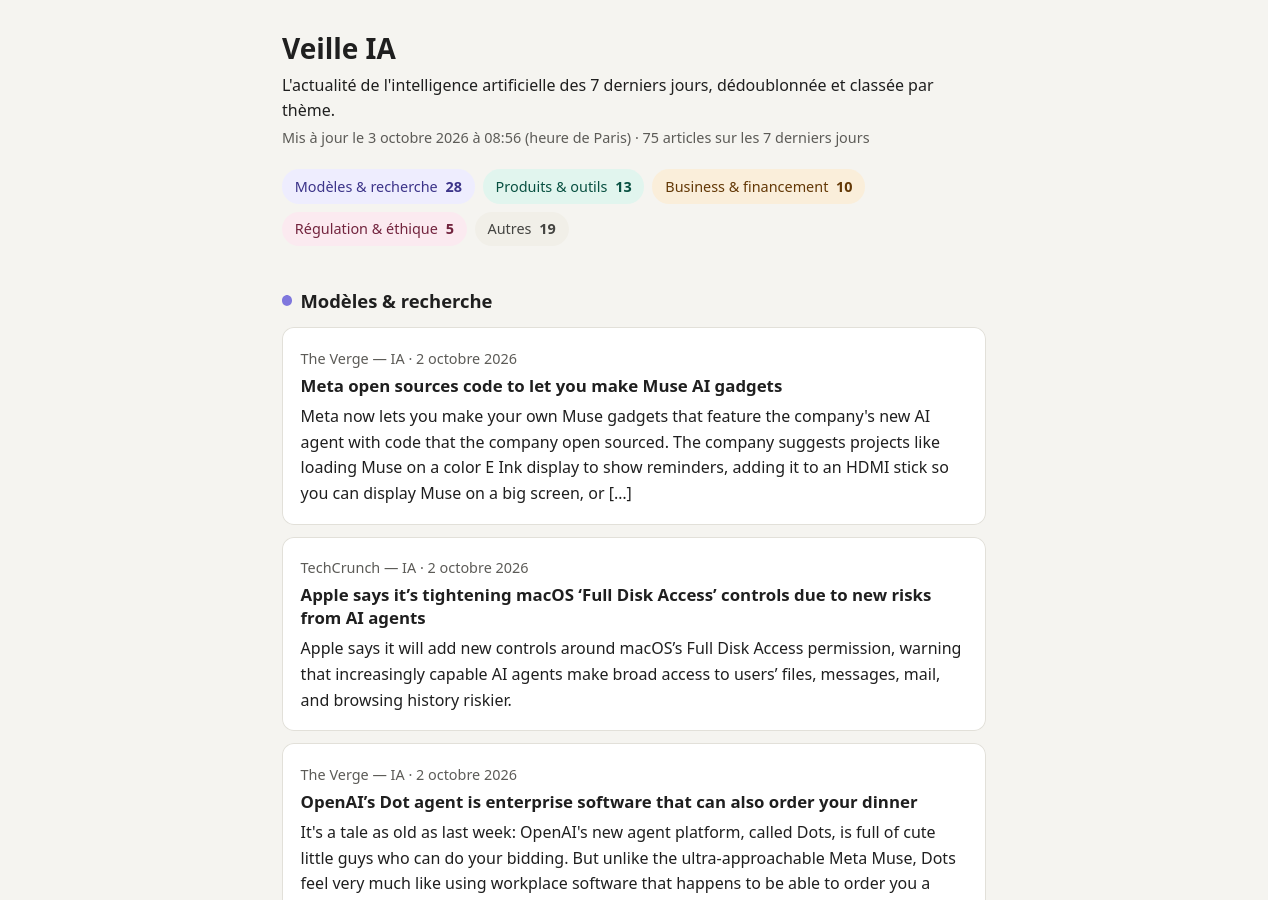
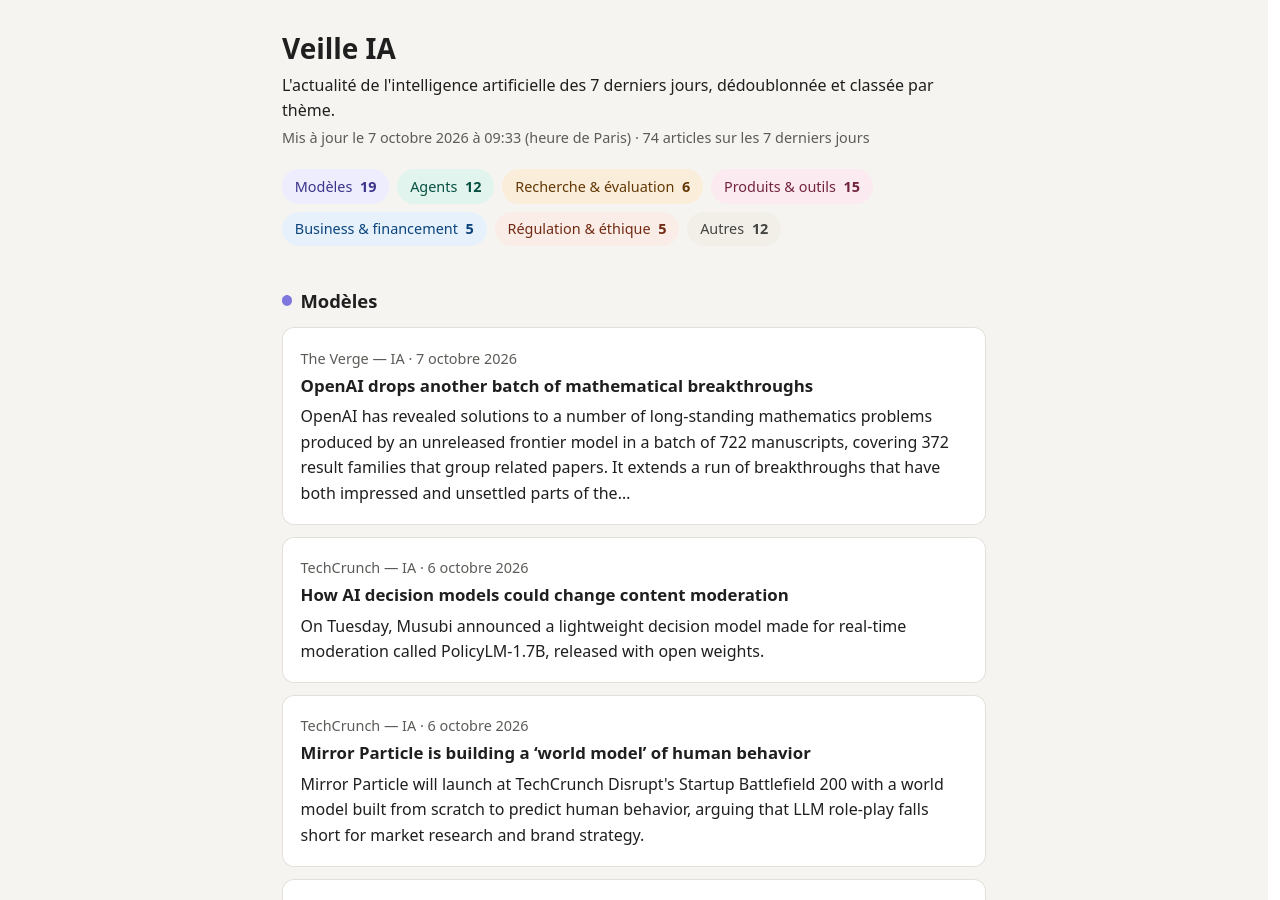
feat: split the « Modèles & recherche » theme in three (#26)
Modèles, Agents and Recherche & évaluation replace the catch-all theme;
all former keywords are kept. Measured on three days of real feeds:
+3 to 4 points of classification, largest theme halved. Decision D20,
CdC v1.18, R2 (in review); README screenshots retaken.

diff --git a/tests/test_config.py b/tests/test_config.py
@@ -73,16 +73,6 @@ def test_config_requires_at_least_one_source(tmp_path):
         load_sources(path)
 
 
-def test_project_themes_follow_the_requirements():
-    names = [t.name for t in load_themes(ROOT / DEFAULT_THEMES_PATH)]
-    assert names == [
-        "Modèles & recherche",
-        "Produits & outils",
-        "Business & financement",
-        "Régulation & éthique",
-    ]
-
-
 def test_themes_require_keywords(tmp_path):
     path = tmp_path / "themes.yaml"
     path.write_text("themes:\n  - name: Vide\n    keywords: []\n", encoding="utf-8")
@@ -102,3 +92,15 @@ def test_other_theme_name_is_reserved_whatever_the_case(tmp_path):
     path.write_text("themes:\n  - name: ' autres '\n    keywords: [x]\n", encoding="utf-8")
     with pytest.raises(ConfigError, match="reserved"):
         load_themes(path)
+
+
+def test_project_themes_split_models_and_research():
+    # D20: « Modèles & recherche » split in three, measured on real feeds (#26)
+    assert [theme.name for theme in load_themes(ROOT / DEFAULT_THEMES_PATH)] == [
+        "Modèles",
+        "Agents",
+        "Recherche & évaluation",
+        "Produits & outils",
+        "Business & financement",
+        "Régulation & éthique",
+    ]

diff --git a/docs/risques.md b/docs/risques.md
@@ -1,13 +1,13 @@
 # Registre des risques
 
 > Probabilité notée **Faible / Moyenne / Élevée**, impact noté **Faible / Moyen / Élevé**. La colonne « Mise en œuvre » indique le jalon où la mesure s'applique. Registre revu à chaque fin de jalon.
-> **Statut :** version initiale validée par le chef de projet (Richard) le 2026-09-29 ; mise à jour liée à D13 (R5) validée le 2026-09-30 ; revue de fin de J0 validée le 2026-09-30 ; revue de fin de J1 validée le 2026-09-30 ; revue de fin de J2 validée le 2026-10-01 ; revue de fin de J3 validée le 2026-10-02 (pull request #33) ; mise à jour de R3 validée le 2026-10-03 (pull request #35) ; mise à jour de R6 et R13 liée à D18 validée le 2026-10-03 (pull request #36) ; mise à jour de R2, R7 et R12 liée à D19 validée le 2026-10-03 (pull request #37) ; mise à jour de R9 validée le 2026-10-06 (pull request #38) ; mise à jour de R3 et R5 du 2026-10-06 (clôture de J3) validée le 2026-10-06 (pull request #40) ; mise à jour de R2 validée le 2026-10-06 (pull request #41) — revue à chaque fin de jalon.
-> **Dernière revue :** 2026-10-02 (fin de J3, mise en ligne de la V1) ; R3 et R5 mis à jour le 2026-10-06 (clôture de J3) ; R2 mis à jour le 2026-10-06 (#39)
+> **Statut :** version initiale validée par le chef de projet (Richard) le 2026-09-29 ; mise à jour liée à D13 (R5) validée le 2026-09-30 ; revue de fin de J0 validée le 2026-09-30 ; revue de fin de J1 validée le 2026-09-30 ; revue de fin de J2 validée le 2026-10-01 ; revue de fin de J3 validée le 2026-10-02 (pull request #33) ; mise à jour de R3 validée le 2026-10-03 (pull request #35) ; mise à jour de R6 et R13 liée à D18 validée le 2026-10-03 (pull request #36) ; mise à jour de R2, R7 et R12 liée à D19 validée le 2026-10-03 (pull request #37) ; mise à jour de R9 validée le 2026-10-06 (pull request #38) ; mise à jour de R3 et R5 du 2026-10-06 (clôture de J3) validée le 2026-10-06 (pull request #40) ; mise à jour de R2 validée le 2026-10-06 (pull request #41) ; mise à jour de R2 liée à D20 en revue (pull request #42) — revue à chaque fin de jalon.
+> **Dernière revue :** 2026-10-02 (fin de J3, mise en ligne de la V1) ; R3 et R5 mis à jour le 2026-10-06 (clôture de J3) ; R2 mis à jour le 2026-10-06 (#39) et le 2026-10-07 (D20)
 
 | ID | Risque | Probabilité | Impact | Mesure prévue | Mise en œuvre | Statut |
 |---|---|---|---|---|---|---|
 | R1 | Une source RSS change d'URL, de format ou disparaît | Moyenne | Moyen | Sources isolées les unes des autres (une source en panne n'arrête pas les autres) ; liste modifiable dans `config/sources.yaml` ; source indisponible signalée sur la page | J1, puis J3 | Ouvert — mesures en place : isolement (J1) ; sources indisponibles signalées sur la page (J3) |
-| R2 | Le classement par mots-clés est imprécis (beaucoup d'articles en « Autres ») | Moyenne | Moyen | Critère de réussite mesurable (≥ 70 % classés) ; ajustement itératif de `config/themes.yaml` (découpage étudié en J4, #26) ; amélioration par LLM étudiée en J4 et non retenue (D19) | J2, puis J4 | Ouvert — mesure en place (J2) : 90 % des histoires classées le 2026-10-01, 76 % le 2026-10-03 (critère ≥ 70 % tenu) ; LLM non retenu pour l'instant (D19) ; taux de classement affiché dans le bilan de chaque exécution (#39) |
+| R2 | Le classement par mots-clés est imprécis (beaucoup d'articles en « Autres ») | Moyenne | Moyen | Critère de réussite mesurable (≥ 70 % classés) ; ajustement itératif de `config/themes.yaml` (découpage étudié en J4, #26, et adopté, D20) ; amélioration par LLM étudiée en J4 et non retenue (D19) | J2, puis J4 | Ouvert — mesure en place (J2) : 90 % des histoires classées le 2026-10-01, 76 % le 2026-10-03 (critère ≥ 70 % tenu) ; LLM non retenu pour l'instant (D19) ; taux de classement affiché dans le bilan de chaque exécution (#39) ; découpage des thèmes adopté (D20, 2026-10-07) : 84 % des actualités classées le jour de la décision |
 | R3 | GitHub désactive le workflow planifié après 60 jours sans activité sur le repo | Élevée | Élevé | Date de dernière mise à jour affichée sur la page ; vérification mensuelle et réactivation ; décider de la durée de vie souhaitée de la page à la clôture du projet | J3, puis continu | Ouvert — date de mise à jour affichée sur la page (J3) ; vérification mensuelle et durée de vie de la page à décider ; constat du 2026-10-02 : l'exécution planifiée de 04:00 UTC n'a pas eu lieu, horaire décalé à 04:17 UTC (#31) ; constat du 2026-10-03 : l'exécution de 04:17 UTC n'a pas eu lieu non plus, trois lancements planifiés par jour (#34) ; constat du 2026-10-06 : 9 exécutions planifiées réussies du 3 au 5 octobre (UTC), avec 3 à 9 heures de retard sur les créneaux prévus ; aucune heure n'est plus promise (CdC v1.16) |
 | R4 | Dérive du périmètre (ajout de fonctionnalités avant la V1) | Moyenne | Élevé | Hors périmètre explicite dans le cahier des charges ; toute nouvelle idée va en J4 ou dans le backlog, et toute modification du périmètre est tracée dans `decisions.md` | Continu | Ouvert |
 | R5 | Retard du planning (disponibilité limitée : chef de projet seul ; planning resserré depuis D13) | Élevée | Moyen | V1 volontairement minimale ; arbitrages et recettes quotidiens ; livrables de J0 utilisables indépendamment ; J4 facultatif ; écarts tracés | Continu | Ouvert — écart constaté : J0 clos le 2026-09-30 (+1 jour) ; J1 livré à la date cible (2026-09-30) ; J2 livré à la date cible (2026-10-01) ; J3 : V1 en ligne à la date cible (2026-10-02, 00:05, heure de Paris) ; écart : la première exécution planifiée, attendue le 2026-10-02, n'a pas eu lieu ; première mise à jour automatique réussie le 2026-10-03 ; J3 clos le 2026-10-06 (+4 jours sur la cible, en attendant des exécutions planifiées fiables, #34) ; le critère n° 2 est compté en jours de l'heure de Paris à partir du 2026-10-03 (précisions de D13 du 2026-10-02 et du 2026-10-06) ; constat prévu au plus tôt le 2026-10-07, après la cible de J4 (2026-10-06) : le bilan sera complété à cette date (D13) |

diff --git a/docs/decisions.md b/docs/decisions.md
@@ -2,7 +2,7 @@
 
 > Chaque choix structurant du projet est consigné ici : contexte, options envisagées, décision et justification.
 > **Décideur :** Richard (chef de projet). Les options sont préparées avec l'assistance de Claude Code.
-> **Statut :** décisions D1 à D17 validées par le chef de projet (D1 à D12 le 2026-09-29, D13 à D15 le 2026-09-30, D16 et D17 le 2026-10-01) ; précision de D13 (départ du critère n° 2) validée le 2026-10-02 (pull request #33) ; précision de D13 (fuseau du décompte) validée le 2026-10-06 (pull request #40) ; précision de D14 (nommage, complexité, couverture) validée le 2026-10-06 (pull request #41) ; D18 validée le 2026-10-03 (pull request #36) ; D19 validée le 2026-10-03 (pull request #37).
+> **Statut :** décisions D1 à D17 validées par le chef de projet (D1 à D12 le 2026-09-29, D13 à D15 le 2026-09-30, D16 et D17 le 2026-10-01) ; précision de D13 (départ du critère n° 2) validée le 2026-10-02 (pull request #33) ; précision de D13 (fuseau du décompte) validée le 2026-10-06 (pull request #40) ; précision de D14 (nommage, complexité, couverture) validée le 2026-10-06 (pull request #41) ; D18 validée le 2026-10-03 (pull request #36) ; D19 validée le 2026-10-03 (pull request #37) ; D20 en revue (pull request #42).
 
 | ID | Date | Sujet | Décision |
 |---|---|---|---|
@@ -25,6 +25,7 @@
 | D17 | 2026-10-01 | Garde sur les mots pour le regroupement | Un mot d'au moins 3 lettres présent dans un seul des deux titres = actualités différentes |
 | D18 | 2026-10-03 | Extraits manquants | Début du texte principal de la page de l'article, extrait avec `trafilatura` |
 | D19 | 2026-10-03 | Modèle de langage (LLM) | Pas de LLM pour l'instant : classement par mots-clés conservé |
+| D20 | 2026-10-07 | Découpage des thèmes | « Modèles & recherche » découpé en Modèles, Agents, Recherche & évaluation |
 
 ---
 
@@ -252,3 +253,14 @@
 - **Décision :** option 3.
 - **Justification :** la V1 tient son critère de classement (≥ 70 %, critère n° 5) sans LLM ; le projet reste gratuit, déterministe et sans secret à gérer ; le découpage des thèmes, étudié dans #26, pourrait améliorer la lecture par simple configuration.
 - **Conséquences :** pas de résumé ni de traduction en français ; les doublons de même sujet restent non regroupés (R12, limite acceptée) ; R7 devient sans objet ; la piste pourra être rouverte après le bilan, par une nouvelle décision.
+
+## D20 — Découpage des thèmes
+
+- **Date :** 2026-10-07
+- **Contexte :** le thème « Modèles & recherche » regroupait près de la moitié des actualités et servait de fourre-tout : des mots très fréquents (« model », « agent », « GPT », « Claude ») y attiraient des articles d'autres thèmes (issue #26). D19 écartant le modèle de langage, l'amélioration passe par la configuration (O5).
+- **Options envisagées :**
+  1. Découper « Modèles & recherche » en trois thèmes : Modèles, Agents, Recherche & évaluation — mesuré sur trois jours de vrais flux (2026-10-03, 06 et 07) : 3 à 4 points de classement en plus (76 → 80 %, 77 → 81 %, 81 → 84 %), thème le plus gros divisé par 1,7 à 2 (29 → 14, 29 → 14, 33 → 19), « Autres » réduit (18 → 15, 17 → 14, 14 → 12).
+  2. Garder les quatre thèmes — rien à changer, mais un thème trop gros pour être parcouru facilement.
+- **Décision :** option 1.
+- **Justification :** gain stable sur trois mesures, par simple configuration ; tous les mots-clés de l'ancien thème sont conservés dans les trois nouveaux, complétés par 24 mots-clés propres à ces thèmes (ceux du brouillon mesuré). À égalité de mots-clés, le premier thème du fichier l'emporte : un article contenant « safety cases » va ainsi en Recherche & évaluation plutôt qu'en Régulation & éthique.
+- **Conséquences :** six thèmes sur la page (les six couleurs prévues par le gabarit sont toutes utilisées) ; les erreurs propres aux mots-clés demeurent (R2) ; les liens vers les sections et les couleurs des thèmes suivants changent, car elles suivent la position dans la configuration (`#theme-1` désigne désormais « Modèles ») ; captures du README refaites.

diff --git a/docs/cahier-des-charges.md b/docs/cahier-des-charges.md
@@ -1,9 +1,9 @@
 # Cahier des charges — Veille IA
 
-> **Statut :** v1.17 — validé par le chef de projet le 2026-10-06
+> **Statut :** v1.18 — en revue (pull request #42) ; v1.17 validée le 2026-10-06
 > **Chef de projet :** Richard
 > **Date :** 2026-09-29
-> **Décisions associées :** voir [decisions.md](decisions.md) (D1 à D19)
+> **Décisions associées :** voir [decisions.md](decisions.md) (D1 à D20)
 > **Risques associés :** voir [risques.md](risques.md)
 > **Sources :** voir [sources.md](sources.md)
 
@@ -32,6 +32,7 @@
 | v1.15 | 2026-10-03 | §8 : contenu de J4 aligné sur le jalon (extraits manquants, découpage des thèmes) ; validée le 2026-10-06 (pull request #38) |
 | v1.16 | 2026-10-06 | §4.4 : aucune heure de mise à jour promise (retards constatés) ; §8 : jours du critère n° 2 comptés en heure de Paris (précision de D13) ; validée le 2026-10-06 (pull request #40) |
 | v1.17 | 2026-10-06 | §6 : couverture des tests ≥ 85 %, nommage et complexité contrôlés, bilan de chaque exécution (#39) ; §7 : outil `coverage` ; validée le 2026-10-06 (pull request #41) |
+| v1.18 | 2026-10-07 | §4.2 : six thèmes, « Modèles & recherche » découpé en Modèles, Agents, Recherche & évaluation (D20) |
 
 ---
 
@@ -77,12 +78,14 @@ La solution doit rester simple, gratuite et fonctionner sans intervention, afin 
   2. Presse spécialisée IA ou tech
   3. Presse généraliste ou hors tech
 - **Limite V1 :** seuls les titres quasi identiques sont reconnus comme doublons ; deux articles traitant du même sujet avec des titres différents ne le sont pas (piste d'amélioration par LLM écartée pour l'instant, D19).
-- **Classement par thème** par mots-clés, définis dans `config/themes.yaml`. Thèmes initiaux :
-  1. Modèles & recherche
-  2. Produits & outils
-  3. Business & financement
-  4. Régulation & éthique
-  5. Autres (articles non classés)
+- **Classement par thème** par mots-clés, définis dans `config/themes.yaml`. Thèmes depuis D20 (2026-10-07 ; le thème initial « Modèles & recherche » est découpé en trois) :
+  1. Modèles
+  2. Agents
+  3. Recherche & évaluation
+  4. Produits & outils
+  5. Business & financement
+  6. Régulation & éthique
+  7. Autres (articles non classés)
 
 ### 4.3 Restitution
 - Une **page web statique unique**, en français, publiée sur GitHub Pages.
@@ -151,7 +154,7 @@ Justification des choix : voir [decisions.md](decisions.md).
 | **J1 — Collecte** | Lecture des 6 flux, format d'article commun | Module `collect` testé | 2026-09-30 |
 | **J2 — Traitement** | Nettoyage, fenêtre 7 jours, regroupement des doublons, classement | Module `process` testé | 2026-10-01 |
 | **J3 — Restitution (V1)** | Page HTML, workflow quotidien, publication Pages | **V1 en ligne** | 2026-10-02 |
-| **J4 — Finitions (bonus)** | README FR et EN avec captures, extraits manquants (D18), découpage des thèmes (#26), étude LLM (non retenue, D19), bilan de projet | V1.1 | 2026-10-06 |
+| **J4 — Finitions (bonus)** | README FR et EN avec captures, extraits manquants (D18), découpage des thèmes (#26, D20), étude LLM (non retenue, D19), bilan de projet | V1.1 | 2026-10-06 |
 
 > Échéances arbitrées par le chef de projet le 2026-09-29 (D13). Ce sont des cibles ; le critère de réussite n° 2 est constaté au terme de 5 jours consécutifs de mise à jour automatique, comptés en jours de l'heure de Paris à partir de la première mise à jour automatique réussie (jour inclus ; D13) ; si ce constat intervient après l'échéance cible de J4, le bilan est complété à cette date. L'avancement est suivi au quotidien et tout écart (avance ou retard) est tracé. Les écarts sont analysés dans le bilan de projet.
 
